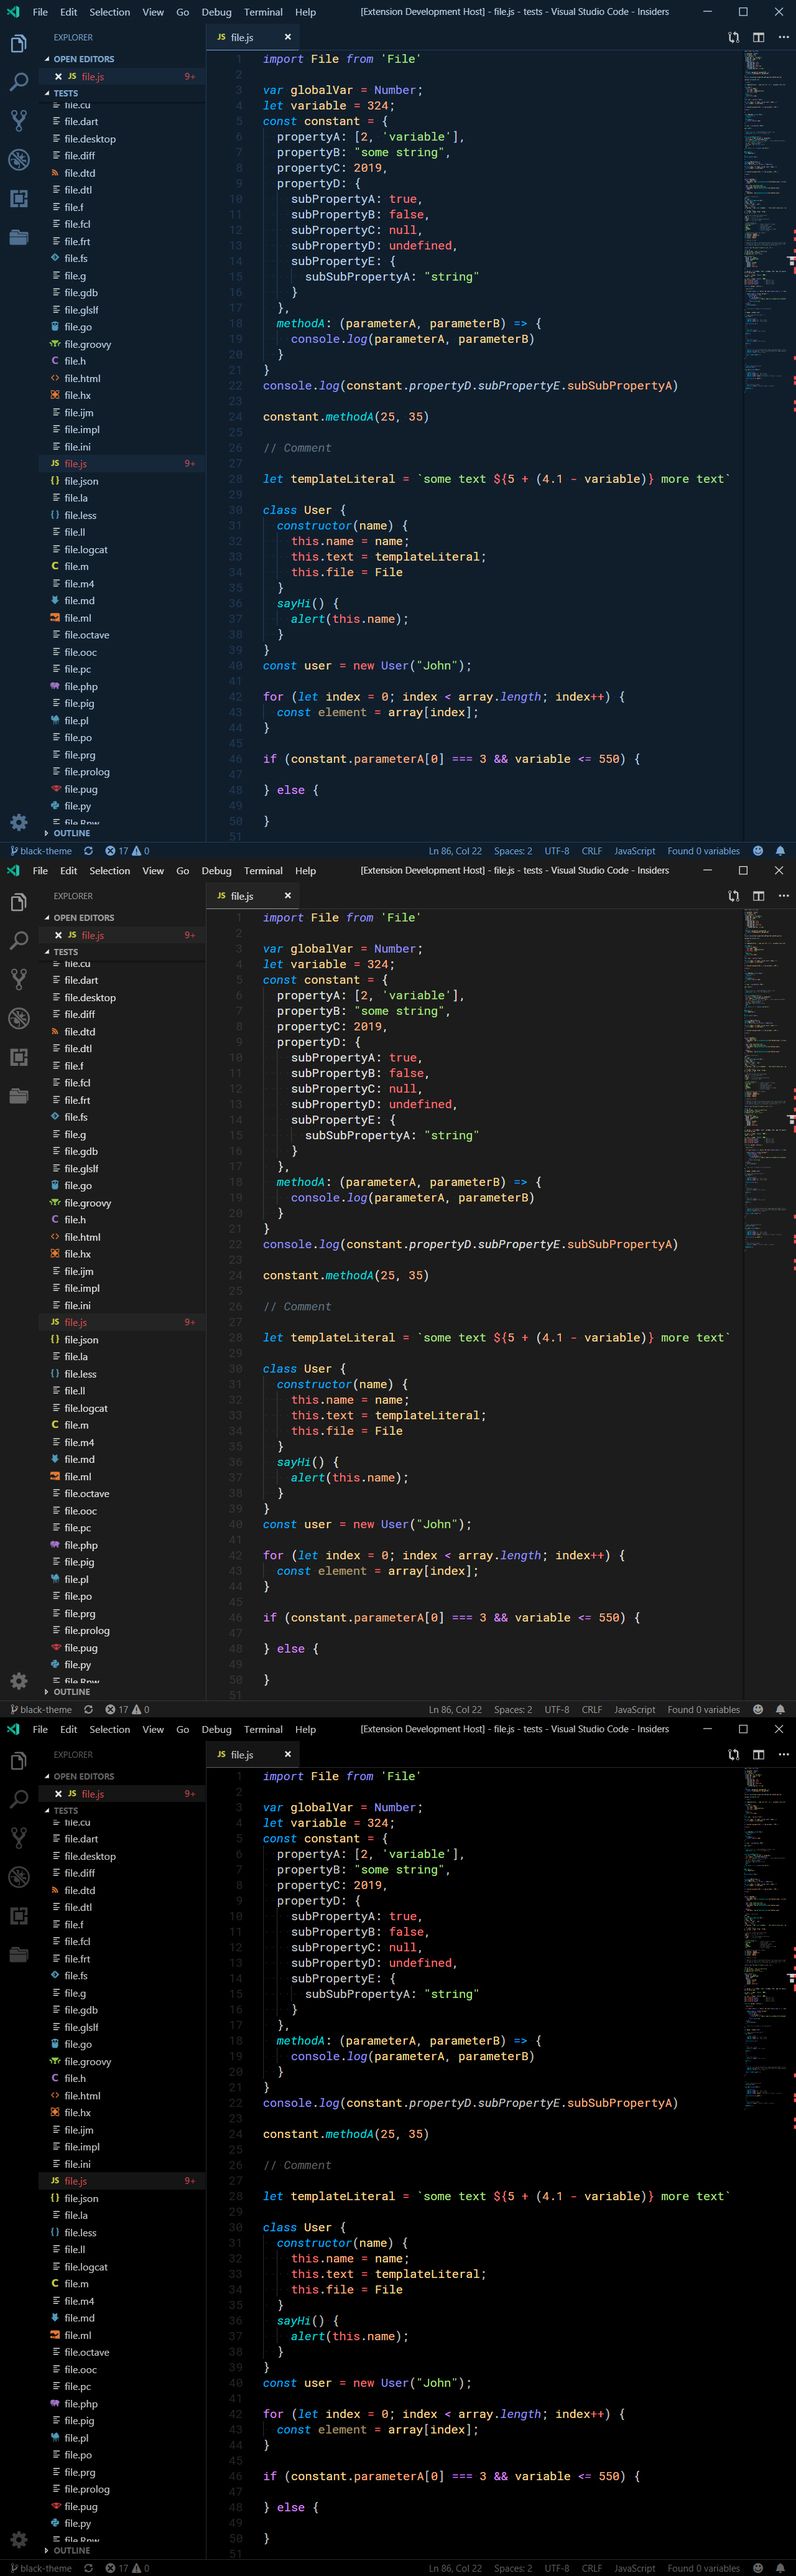
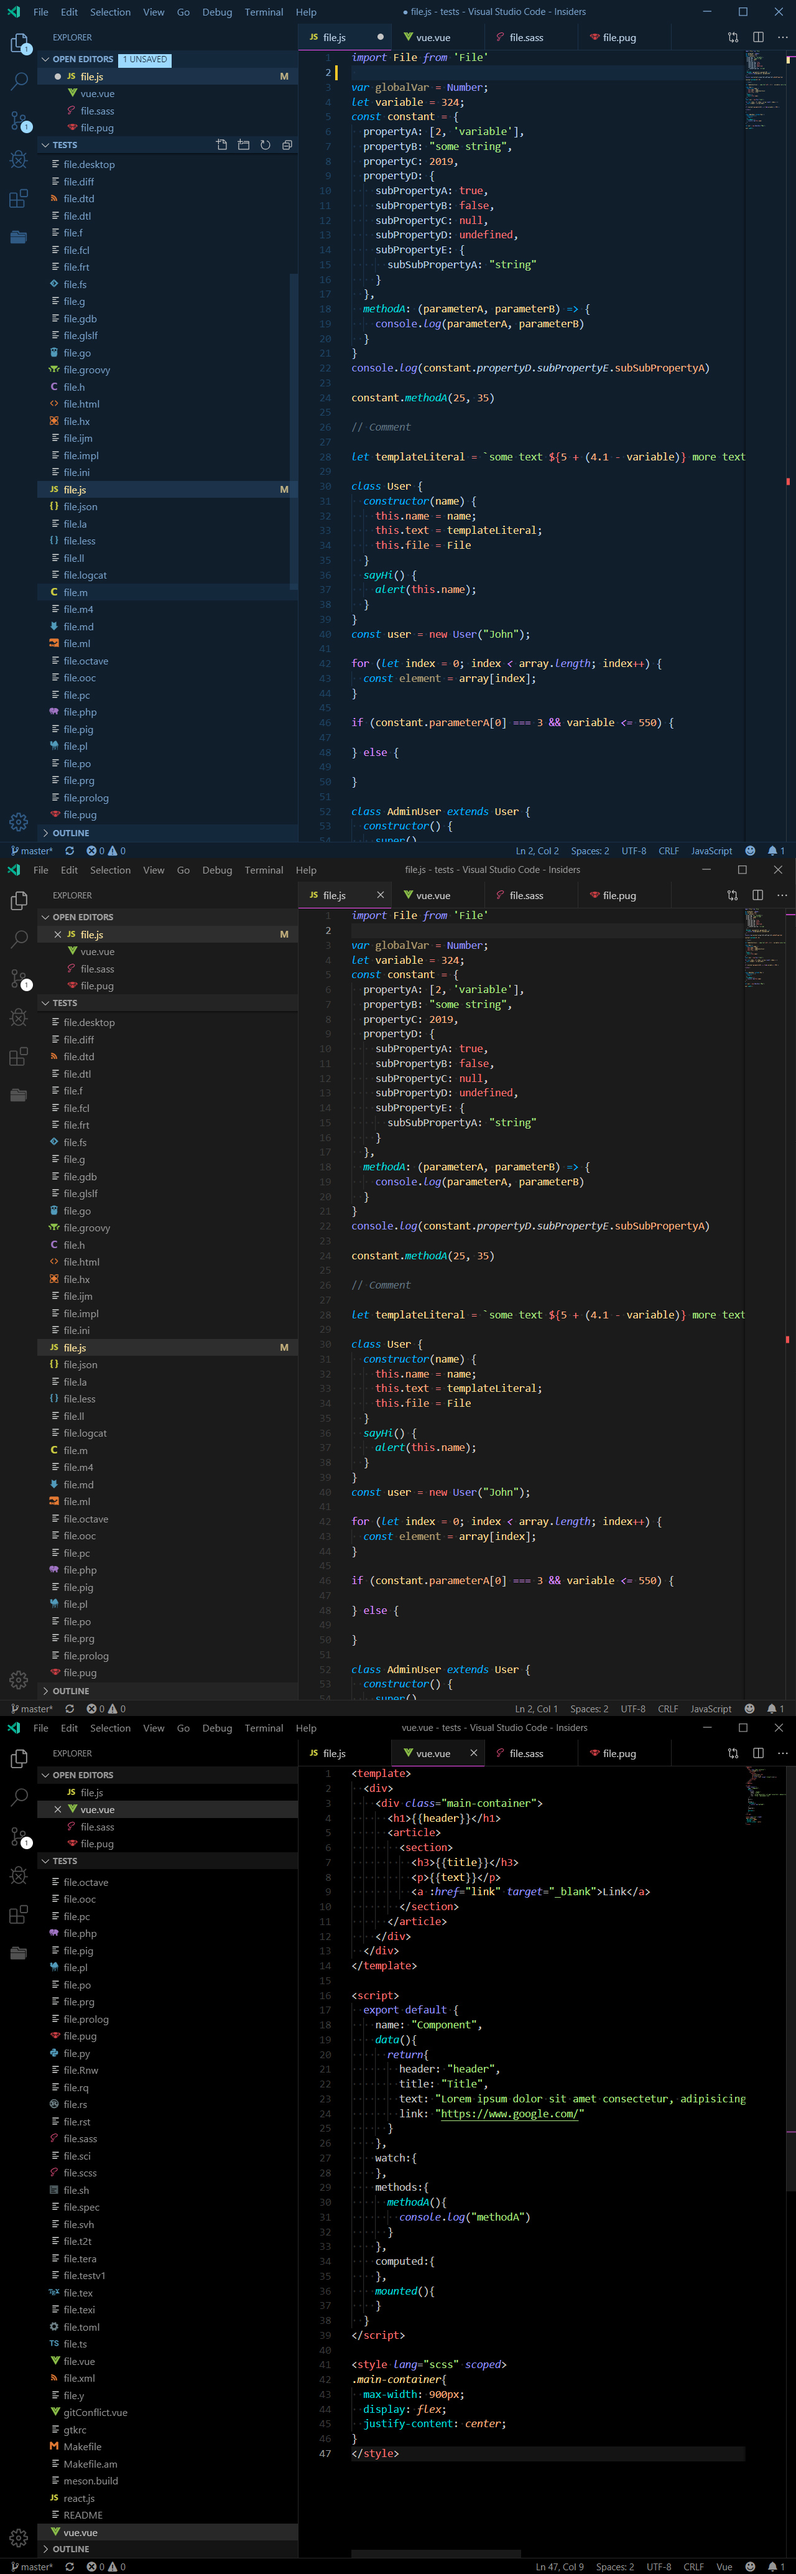
update the images on readme

diff --git a/README.md b/README.md
@@ -14,13 +14,16 @@ A Visual Studio Code theme based on the Sarah Drasner's [Night owl theme](https:
 ![js](images/js.jpg)
 
 ## Vue
-![js](images/vue.jpg)
+![vue](images/vue.jpg)
+
+## Sass
+![sass](images/sass.jpg)
 
 ## Pug
-![js](images/pug.jpg)
+![pug](images/pug.jpg)
 
 ## Html
-![js](images/html.jpg)
+![html](images/html.jpg)
 
 *big images to preserve details
 

diff --git a/CHANGELOG.md b/CHANGELOG.md
@@ -2,6 +2,13 @@
 
 All notable changes to the "night-owl" extension are be documented in this file.
 
+## [1.7.3] - 07-13-2019
+
+### Changed
+- update the images on README
+
+---
+
 ## [1.7.2] - 07-13-2019
 
 ### Fixed
